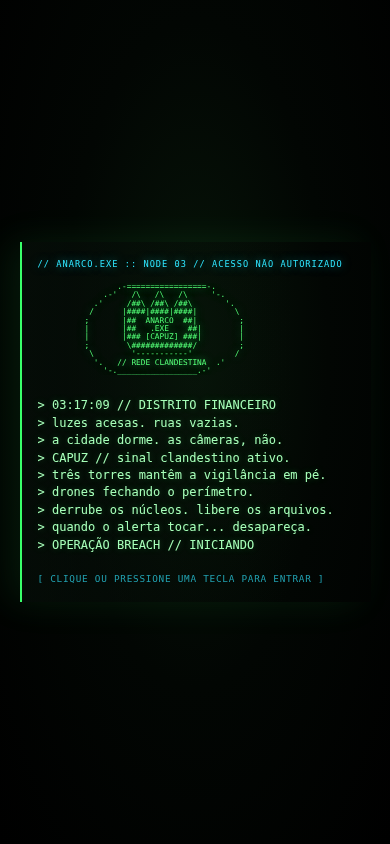
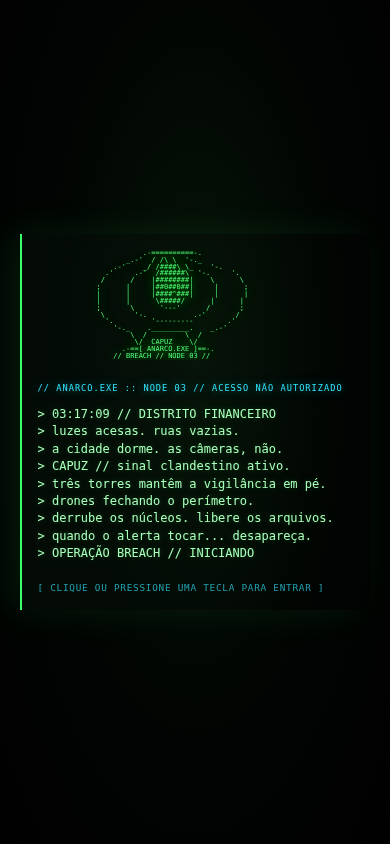
4,0,1

diff --git a/style.css b/style.css
@@ -109,7 +109,7 @@ canvas {
   z-index: 20; /* ÂNCORA: o menu fica acima do HUD (z-index 8), senão o painel de cima cobre o título do menu */
   overflow-y: auto; /* em tela baixa o painel rola em vez de cortar */
 }
-#ov div {
+#ov > div {
   background: var(--paper);
   color: var(--ink);
   border: 4px solid var(--ink);
@@ -1594,3 +1594,36 @@ body[data-hud="discreto"] #hud:hover { opacity: 1; }
 @media (prefers-reduced-motion: reduce) {
   .hack-panel, .hack-panel *, .hack-trace-cursor { animation: none !important; transition: none !important; }
 }
+
+/* ÂNCORA: AJUSTES v4.0.1 no menu — seletores iguais (inclui o do HUD) e cartão que cabe em telas baixas */
+#ov .fx-settings select { display: block; width: 100%; margin-top: 6px; padding: 7px 9px; border: 2px solid #2fe6ff; border-radius: 2px; background: #080b12; color: #fff; font: inherit; font-size: .82rem; }
+@media (max-height: 760px) and (min-width: 761px) {
+  #ov .fx-settings small:not([id]) { display: none; }
+  #ov { padding-block: 8px; }
+  #ov > .ov-card { gap: 8px 26px; padding-block: 18px; margin-block: 0; }
+}
+@media (max-height: 520px) and (min-width: 761px) { #ov .ov-copy, #ov .fx-settings small { display: none; } }
+
+/* ÂNCORA: PAINÉIS SECUNDÁRIOS (v4.0.1) — mesmo visual neon do menu e sem cobrir os controles do jogo */
+/* Briefing: sobe para o topo (embaixo ele escondia os botões de habilidade e a escolha de rota) */
+#bf { align-items: flex-start; justify-content: center; padding: calc(56px + env(safe-area-inset-top, 0px)) 12px 0; background: none; pointer-events: none; }
+#bf > div { width: min(760px, 100%); padding: 12px 16px; background: linear-gradient(135deg, rgba(11, 13, 27, .9), rgba(18, 8, 27, .88)); border: 1px solid rgba(83, 246, 255, .3); border-left: 4px solid #ff3fd0; box-shadow: 0 10px 40px rgba(0,0,0,.45); }
+#bf h2 { font-size: clamp(1.5rem, 3.4vw, 2.2rem); }
+#bf .brief-grid { margin-top: 8px; }
+@media (max-width: 760px), (max-height: 520px) { #bf p:not(.eyebrow) { font-size: .82rem; } #bf .brief-grid strong { font-size: .76rem; } }
+/* Vazamentos e Ranking: cartão escuro neon, lista rolável, botões lado a lado */
+#lk > div, #rk > div { width: min(600px, 100%); max-height: calc(100dvh - 40px); color: #ece9e1; background: linear-gradient(135deg, rgba(11, 13, 27, .97), rgba(18, 8, 27, .95)); border: 1px solid rgba(83, 246, 255, .36); border-left: 4px solid #ff3fd0; box-shadow: 0 18px 70px rgba(0,0,0,.5); }
+#lk h2, #rk h2 { font-size: clamp(1.6rem, 4vw, 2.1rem); color: #fff; }
+#lk h2 span, #rk h2 span { background: none; color: #ff3fd0; padding: 0; text-shadow: 0 0 18px rgba(255, 63, 208, .6); }
+#lk li, #rk li { border-bottom: 1px dashed rgba(255,255,255,.18); padding: 7px 0; font-size: .9rem; }
+#lk li b, #rk li b { color: #53f6ff; }
+#lk ul, #rk ul { max-height: 46dvh; overflow-y: auto; margin: 8px 0 12px; }
+#lk button, #rk button { border: 1px solid rgba(255,255,255,.35); background: #1a1226; color: #fff; padding: 8px 14px; }
+#lk button:first-of-type, #rk button:first-of-type { background: linear-gradient(135deg, #53f6ff, #ff3fd0); color: #080a12; font-weight: 700; }
+/* Pausa: mesmo cartão neon */
+#pz > div { background: linear-gradient(135deg, rgba(11, 13, 27, .97), rgba(18, 8, 27, .95)); color: #ece9e1; border: 1px solid rgba(83, 246, 255, .36); border-left: 4px solid #ff3fd0; transform: none; }
+#pz h2 { color: #fff; } #pz h2 span { background: none; color: #ff3fd0; padding: 0; }
+#pz button { border: 1px solid rgba(255,255,255,.35); background: #1a1226; color: #fff; }
+#pz #pzc { background: linear-gradient(135deg, #53f6ff, #ff3fd0); color: #080a12; font-weight: 700; }
+/* ÂNCORA: caixas de opção com a altura do próprio conteúdo (antes a 1ª esticava e sobrava espaço vazio) */
+#ov .fx-settings { align-self: start; }

diff --git a/script.js b/script.js
@@ -1482,17 +1482,22 @@ function hackDone(t) {
 }
 function introTerm(done) {
   const logo = [
-    "                 .-=================-.",
-    "              .-'   /\\   /\\   /\\     '-.",
-    "            .'     /##\\ /##\\ /##\\       '.",
-    "           /      |####|####|####|        \\",
-    "          ;       |##  ANARCO  ##|         ;",
-    "          |       |##   .EXE    ##|        |",
-    "          |       |### [CAPUZ] ###|        |",
-    "          ;        \\#############/         ;",
-    "           \\        '-----------'         /",
-    "            '.   // REDE CLANDESTINA  .'",
-    "              '-._________________.-'",
+    "                         .-==========-.",
+    "                     _.-'  / /\\ \\  '-._",
+    "                  .-'    _/ /####\\ \\_    '-.",
+    "                .'     .-'  /######\\  '-.     '.",
+    "               /      /    |########|    \\      \\",
+    "              ;      |     |##0##0##|     |      ;",
+    "              |      |     |####^###|     |      |",
+    "              |      |      \\#####/      |      |",
+    "              ;       \\      '---'      /       ;",
+    "               \\       '-.           .-'       /",
+    "                '.         '---------        .'",
+    "                  '-._    ._________.    _.-'",
+    "                      \\  /         \\  /",
+    "                       \\/  CAPUZ    \\/",
+    "                    .-==[ ANARCO.EXE ]==-.",
+    "                  // BREACH // NODE 03 //",
   ];
   const L = [
     "> 03:17:09 // DISTRITO FINANCEIRO",
@@ -1515,17 +1520,17 @@ function introTerm(done) {
   tag.style.cssText = "margin-bottom:12px;color:#2fe6ff;font-size:.72em;letter-spacing:.12em;text-shadow:0 0 10px #2fe6ff88";
   const art = document.createElement("pre");
   art.textContent = logo.join("\n");
-  art.style.cssText = "overflow:hidden;margin:0 0 22px;color:#55ff78;font:clamp(7px,2vw,12px)/1.08 monospace;text-shadow:0 0 9px #39ff6a99;white-space:pre;user-select:none";
+  art.style.cssText = "overflow:hidden;margin:0 0 22px;color:#55ff78;font:clamp(7px,1.5vw,15px)/.98 monospace;text-shadow:0 0 12px #39ff6acc;white-space:pre;user-select:none";
   const readout = document.createElement("pre");
   readout.setAttribute("aria-live", "polite");
-  readout.style.cssText = "min-height:12em;margin:0;white-space:pre-wrap;overflow-wrap:anywhere;color:#a7ffb9;text-shadow:0 0 7px #39ff6a44";
+  readout.style.cssText = "min-height:9.6em;margin:0;white-space:pre-wrap;overflow-wrap:anywhere;color:#a7ffb9;text-shadow:0 0 7px #39ff6a44";
   const prompt = document.createElement("div");
   prompt.textContent = "[ CLIQUE OU PRESSIONE UMA TECLA PARA ENTRAR ]";
   prompt.style.cssText = "margin-top:18px;color:#2fe6ff;font-size:.78em;letter-spacing:.08em;animation:introCursor 1s steps(2,start) infinite";
   const style = document.createElement("style");
   style.textContent = "@keyframes introCursor{to{opacity:.35}}@media(max-width:520px){.anarco-intro-tag{letter-spacing:.04em}}";
   tag.classList.add("anarco-intro-tag");
-  shell.append(tag, art, readout);
+  shell.append(art, tag, readout);
   o.append(style, shell);
   document.body.appendChild(o);
   if (!actx) {
@@ -3082,10 +3087,16 @@ function dodge() {
   noteT = 0.8;
   buzz(18);
 }
+let lastGhostDeniedAt = -Infinity;
 function ghostAttack() {
   if (skinAtual !== "vanta") {
     note = "NÓ FANTASMA: selecione a operadora VANTA.";
     noteT = 1.6;
+    const now = performance.now();
+    if (now - lastGhostDeniedAt >= 320) {
+      playHackFeedback("error");
+      lastGhostDeniedAt = now;
+    }
     return;
   }
   if (state !== "play" || ghostCd > 0 || mini) return;

diff --git a/public/sw.js b/public/sw.js
@@ -1,5 +1,5 @@
 /* ÂNCORA: service worker = "porteiro" que guarda os arquivos no aparelho. Depois da 1ª visita o jogo abre até sem internet. */
-const VERSAO = "anarco-v4.0.0-terminal-audio";
+const VERSAO = "anarco-v4.0.1-menu-largo";
 // Só nomes estáveis; os arquivos com hash (assets/index-XXXX.js) entram no cache na 1ª visita, pela regra de fetch abaixo.
 const BASICO = ["./", "index.html", "style.css", "script.js", "manifest.webmanifest", "assets/dados/manifesto.js",
   "assets/share/favicon-192.png", "assets/share/favicon-512.png", "assets/img/skins/vanta.png",

diff --git a/docs/RELATORIO-MESCLA-V4.0.1.md b/docs/RELATORIO-MESCLA-V4.0.1.md
@@ -1,0 +1,33 @@
+# ANARCO.EXE 3D — Relatório da mescla v4.0.1
+
+**Resultado:** nossa v3.9.9 (HUD "Trilho fino", Vite + TypeScript, `.mdl`) + o pacote v4.0.0 recebido (Vigilância Total, trilha e efeitos sonoros, introdução em terminal, chuva de código, menu horizontal) em um único projeto.
+**Validação:** 79 testes, build, smoke e e2e passam (e2e: "tudo certo"). Capturas em `docs/capturas/v4.0.1-*.png`.
+
+## 1. Como a mescla foi feita (e por quê)
+A v4.0.0 foi construída em cima da nossa v3.9.9 (já trazia o HUD "Trilho fino"). Por isso usei **mescla de 3 vias**: base = nossa v3.9.9 entregue; lado A = o que mudamos depois (menu largo); lado B = a v4.0.0.
+- `script.js`, `sw.js`, `smoke.mjs`, `e2e-invadir.mjs`, `package.json`, `README.md`: só a v4 mexeu → entram inteiros.
+- `style.css` e `index.html`: os dois lados mexeram → mescla pelo git. O conflito era o **menu**: a v4 já trouxe um menu horizontal próprio, com modo de resultados separado (`data-mode="results"`) e a chuva de código. Ficamos com o da v4, porque ele já se integra ao restante do jogo, e descartamos o meu rascunho (que quebrava o modo de resultados). "Nossa versão prevalece" aqui significa: manter o que funciona melhor e consertar o que falta.
+- `assets/audio/*.mp3` (trilha + 4 efeitos), docs e capturas da v4: copiados.
+
+## 2. O que foi corrigido (ranking Fácil → Difícil, na ordem executada)
+| # | Nível | Correção | Por quê |
+|---|---|---|---|
+| 1 | Fácil | Versão 4.0.1 e cache do service worker `anarco-v4.0.1-menu-largo` | Sem trocar o nome do cache, quem já instalou o PWA continuaria com o menu antigo. |
+| 2 | Fácil | `#ov div` → `#ov > div` | A regra antiga atingia **todas** as divs dentro do menu (relatório, botões), dando fundo de papel e rotação onde não devia. A v4 já tinha remendado isso em 3 blocos "Correção…". |
+| 3 | Fácil | Seletor de HUD com o mesmo visual dos outros dois seletores | Estava com o cinza padrão do navegador. |
+| 4 | Fácil | Textos de ajuda do menu somem em telas baixas (< 760 px de altura) | O menu passava da tela em 1366×680. |
+| 5 | Médio | Caixas de opção com a altura do conteúdo | A primeira caixa esticava e deixava espaço vazio. |
+| 6 | Médio | Briefing da fase sobe para o topo, sem fundo, sem capturar cliques | Embaixo ele cobria os botões ESQUIVA/NÓ/VÍRUS/EMP e o seletor de rota. |
+| 7 | Médio | Ranking, Vazamentos e Pausa no mesmo visual neon do menu | Estavam no estilo "papel" antigo, fora do tema. |
+| 8 | Difícil | Teste e2e: espera do minigame de 10 s → 45 s | O hack completo leva ~22 s; o teste dava falso erro mesmo na v4.0.0 original. O jogo estava certo, o teste é que estava apertado. |
+
+## 3. Conceitos praticados
+Mescla de 3 vias (`git merge-file`: base, nosso, deles), especificidade e cascata de CSS (`#ov div` vs `#ov > div`), CSS Grid com `grid-template-areas` e modo por atributo (`data-mode`), `@media` por altura além de largura, `pointer-events: none` para painéis informativos, versionamento do cache do service worker, testes e2e determinísticos (tempo de espera deve refletir o tempo real do jogo).
+
+## 4. O que NÃO foi verificado
+- Aparelhos reais (toque, FPS, áudio): testei em Chromium headless, em 4 tamanhos de tela (1366×680, 1000×640, 390×780, 780×360).
+- Em celular deitado (altura ~360 px) o menu rola dentro do cartão; não cabe inteiro, por limite físico de altura.
+- As músicas e os efeitos da v4 foram só conferidos quanto a carregar e decodificar, não quanto a gosto ou volume.
+
+## 5. Observação para o deploy
+A pasta `dist/` não vai no zip. Rode `pnpm install` e `pnpm build`; a Vercel faz isso sozinha (Framework Vite, saída `dist`). O peso do `dist` é ~14,4 MiB.

diff --git a/docs/RELATORIO-UPGRADE-V4.0.0-VIGILANCIA-TOTAL.md b/docs/RELATORIO-UPGRADE-V4.0.0-VIGILANCIA-TOTAL.md
@@ -10,8 +10,9 @@
 - Os cinco MP3 entram no pré-cache do service worker para uso offline após a primeira visita.
 - A chuva de códigos do especial BREACH fica ativada por padrão no desktop. O menu oferece `Ativa`, `Automática` (respeita a preferência do sistema) e `Desativada`, com escolha persistente; o modo explícito permite ver os códigos mesmo quando o sistema solicita movimento reduzido.
 - A introdução em terminal foi reescrita como uma abertura cinematográfica sobre CAPUZ, as três torres e a operação BREACH, mantendo a estética verde e a digitação progressiva.
-- O terminal ganhou um emblema ASCII original `ANARCO.EXE // CAPUZ`, responsivo, e a velocidade de digitação passou de 15 ms para 5 ms por caractere.
+- O terminal ganhou uma arte ASCII original ampliada `ANARCO.EXE // CAPUZ`, responsiva, e a velocidade de digitação passou de 15 ms para 5 ms por caractere.
 - A introdução toca um bip curto de inicialização e cliques digitais espaçados enquanto o texto aparece; os efeitos são sintetizados pelo Web Audio e passam pelo master existente, respeitando o botão Mudo.
+- A tentativa de acionar `NÓ FANTASMA` com um operador diferente de VANTA toca o som de falha já existente e informa como liberar a habilidade; o guard central cobre botão e tecla `R`, com proteção contra repetição rápida.
 
 ## Capturas do fluxo
 
@@ -47,6 +48,6 @@ Emblema ASCII e narração ajustados à largura do celular:
 | `pnpm test` | 12 arquivos; 79 testes aprovados |
 | `pnpm build` | Aprovado; typecheck, Vite, cópia dos assets e limite de tamanho |
 | `pnpm smoke` | Aprovado; 39 arquivos estáticos, modelos e áudio local na `dist/` |
-| `CHROMIUM_PATH=/usr/bin/chromium pnpm e2e` | Aprovado; emblema e narração da introdução, mixer de bip/cliques com mute, seis fases, chuva BREACH com movimento reduzido, conexão/progresso/root, falha magenta, áudio, reflow mobile, botões touch e ausência de erros JS/HTTP |
+| `CHROMIUM_PATH=/usr/bin/chromium pnpm e2e` | Aprovado; arte ASCII maior sem cortes em desktop/celular, narração, mixer com mute, recusa sonora VANTA sem spam, seis fases, chuva BREACH com movimento reduzido, conexão/progresso/root, falha magenta, áudio, reflow mobile, botões touch e ausência de erros JS/HTTP |
 
 A compilação mantém somente o aviso conhecido do script clássico legado `assets/dados/manifesto.js`, intencional no projeto. O breakpoint mobile foi exercitado em Chromium touch a 390 × 844 px; não substitui a verificação em aparelhos físicos. Os MP3 são pré-cacheados pelo service worker, portanto a disponibilidade offline ocorre após a primeira instalação/cache.

diff --git a/README.md b/README.md
@@ -1,4 +1,4 @@
-# ANARCO.EXE 3D — Breach Protocol (v4.0.0)
+# ANARCO.EXE 3D — Breach Protocol (v4.0.1)
 
 Jogo 3D de infiltração cyberpunk. O jogo roda no `script.js` (JavaScript clássico, com comentários **ÂNCORA**);
 o TypeScript fica só no módulo de efeitos (`src/anarco-fx.ts`) e no carregador (`src/anarco-entry.ts`).
@@ -35,9 +35,10 @@ WASD/setas movem · Shift corre · Espaço = BREACH · E = EMP · Q = VÍRUS · 
 ## Upgrade v4.0.0 — Vigilância Total
 A torre Vigilância Total Corp. agora tem blindagem modular, antena de datacenter e placa identificadora. Ao entrar no raio de hack, um uplink ciano contextual mostra conexão, extração, autenticação root e comprometimento; o fluxo de partículas acompanha o progresso e glitcha em magenta quando a sequência falha. Em telas touch, a interface compacta fica acima do minigame sem bloquear os controles. A chuva de códigos do BREACH fica ativa por padrão no desktop, inclusive com movimento reduzido; no menu, escolha Ativa, Automática ou Desativada. O pacote inclui uma trilha cyberpunk instrumental e quatro efeitos originais (conexão, fluxo de dados, erro e acesso root), armazenados localmente e compatíveis com o mute e o funcionamento offline.
 
-A abertura do terminal apresenta CAPUZ e a operação BREACH em uma sequência cinematográfica, com emblema ASCII original ANARCO.EXE // CAPUZ, digitação acelerada, bip de inicialização e cliques retro de teclado. Os sons são discretos e respeitam o botão Mudo.
+A abertura do terminal apresenta CAPUZ e a operação BREACH em uma sequência cinematográfica, com arte ASCII original ampliada ANARCO.EXE // CAPUZ, digitação acelerada, bip de inicialização e cliques retro de teclado. A habilidade exclusiva NÓ FANTASMA toca um erro curto se tentada com outro operador. Os sons são discretos e respeitam o botão Mudo.
 
 ## Documentação
+- `docs/RELATORIO-MESCLA-V4.0.1.md` — mescla da v4.0.0 com a nossa v3.9.9, correções e validação.
 - `docs/RELATORIO-historico-A-a-P.md` — nossos relatórios (itens A a P, mais o item Q da mescla v3.9).
 - `docs/relatorios-v3.6-a-v3.8/` — relatórios e evidências da linha v3.6 → v3.8.
 - `docs/capturas/` — capturas da v3.9.

diff --git a/docs/RELATORIO-historico-A-a-P.md b/docs/RELATORIO-historico-A-a-P.md
@@ -257,3 +257,6 @@ Dano por segundo no chefão agora: BREACH 4,9 · EMP 2,5 · VÍRUS 2,0. Cada uma
 **Conceitos:** especificidade de CSS (`body[data-hud] #hud #id` vence `#hud .b`), `grid-template-areas` com `grid-area` em cada filho, `font-size: 0` para esconder um rótulo sem mexer no HTML, `border-left` + `box-shadow` como linha-guia, valor salvo em `localStorage`.
 **Teste:** captura 1200 × 680 sem corte nem sobreposição, objetivo no topo livre, 0 erros no console.
 **Lição:** regra escrita depois e com mais IDs ganha. Foi isso que deixou o primeiro rascunho quebrado (textos empilhados e barras sumidas).
+
+## Item Z — Mescla v4.0.1 (Difícil)
+Resumo: nossa v3.9.9 + pacote v4.0.0 (Vigilância Total, áudio, terminal, chuva de código, menu horizontal), com 8 correções. Relatório completo: `docs/RELATORIO-MESCLA-V4.0.1.md`.
